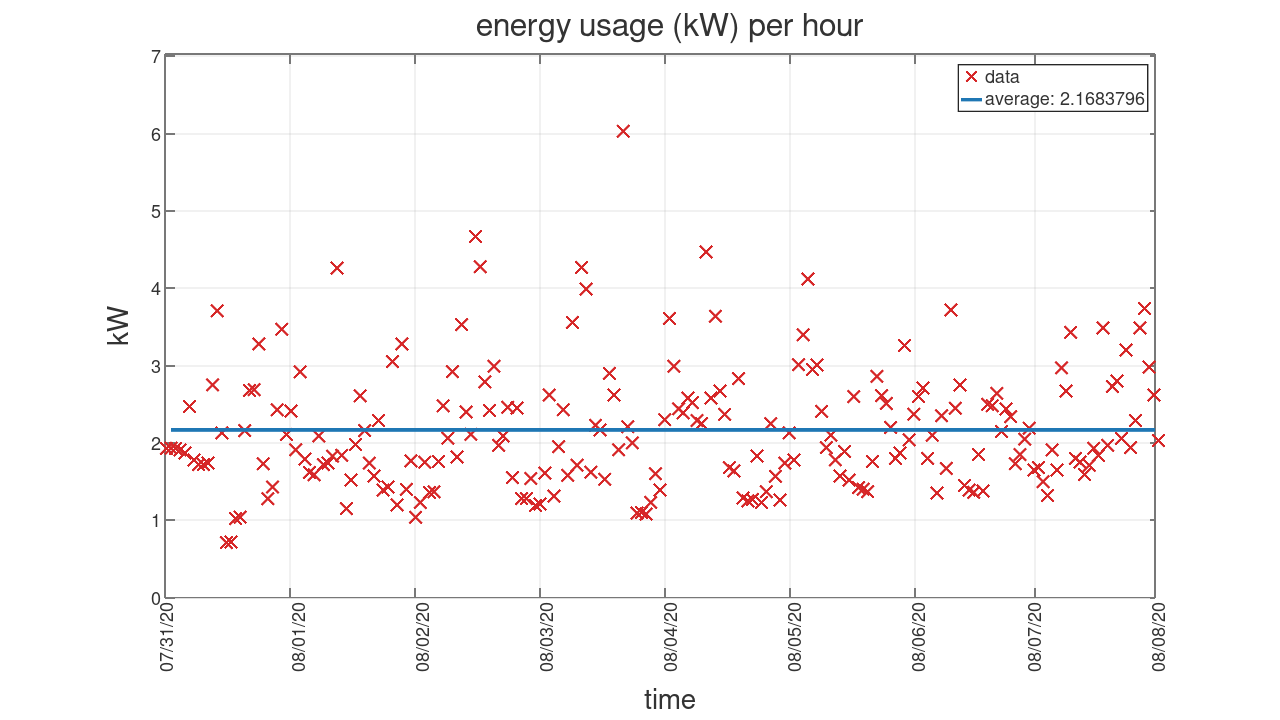
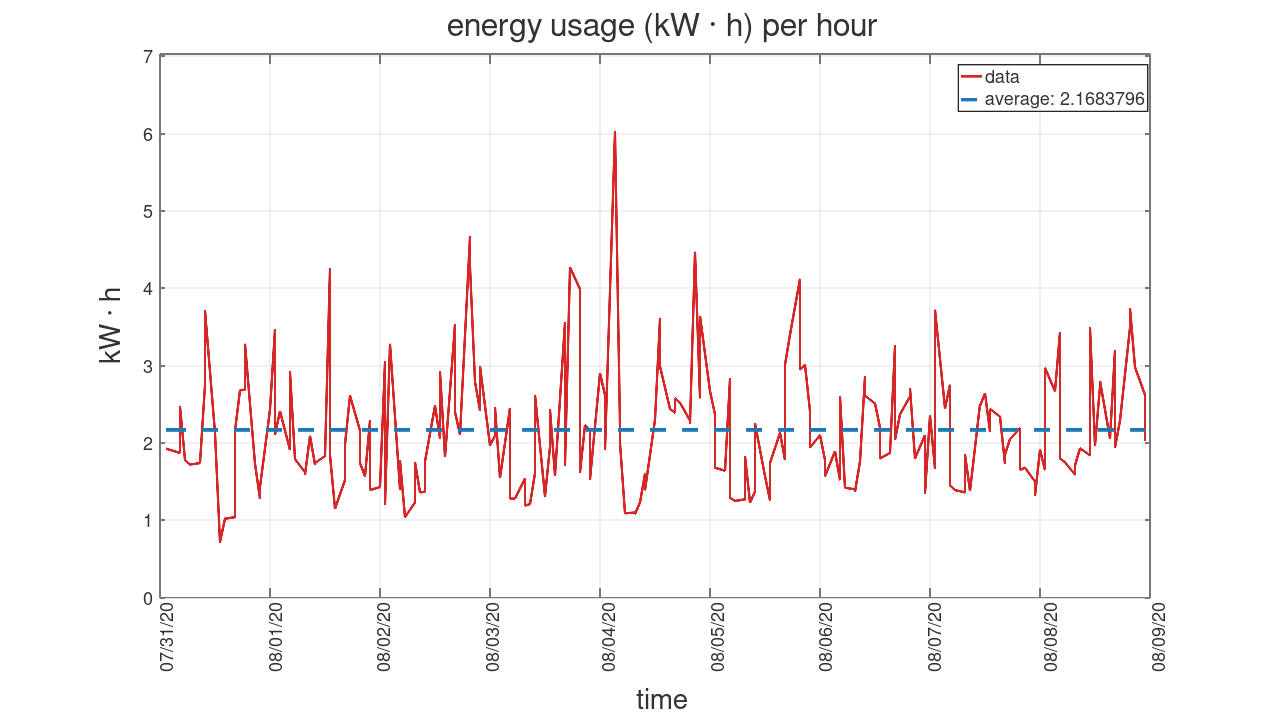
typos

diff --git a/graph_usage.m b/graph_usage.m
@@ -29,23 +29,23 @@ resy = 720;
 H = figure('position', [1,1,resx,resy]);
 hold on;
 
-plot(x, y, 'x', ...
+plot(x, y, '-', ...
     'displayname', 'data', ...
     'color', [214/255, 39/255, 40/255], ...
     'linewidth', 3, ...
-    'markersize', 12 ...
+    'markersize', 8 ...
 );
 
-xticks(linspace(x(1), x(end), floor(length(x)/24)));
-datetick('x', '%D', 'keepticks');
-
-plot(x, avgy, '-', ...
+plot(x, avgy, '--', ...
     'displayname', sprintf('average: %.7f', mean(y)), ...
     'color', [31/255, 119/255, 180/255], ...
     'linewidth', 4 ...
 );
 
-xlim([min(x), max(x)]);
+xticks(x(1):x(end)+1/24);
+datetick('x', '%D', 'keepticks');
+
+xlim([x(1), x(end)+1/24]);
 ylim([0,max(y)+1]);
 
 L = legend();
@@ -90,7 +90,7 @@ set(xt_H, ...
     'color', [0.2, 0.2 ,0.2] ...
 );
 
-Yl = ylabel('kW', ...
+Yl = ylabel('kW \cdot h', ...
     'fontweight', 'normal', ...
     'fontsize', 28, ...
     'color', [0.2, 0.2 ,0.2] ...
@@ -108,7 +108,7 @@ set(yt_H, ...
     'color', [0.2, 0.2 ,0.2] ...
 );
 
-title('energy usage (kW) per hour', ...
+title('energy usage (kW \cdot h) per hour', ...
     'fontweight', 'normal', ...
     'fontsize', 32, ...
     'color', [0.2, 0.2, 0.2] ...

diff --git a/README.md b/README.md
@@ -7,6 +7,6 @@ usage:
  * set where you want to save your login in `get_usage.sh`
  * set the meter number from [the duke energy usage analysis page](https://www.duke-energy.com/my-account/usage-analysis) in `get_usage.sh`
  * run `./get_usage.sh | tee usage.csv`
- * run `octave graph_data.m` to generate pretty graph `usage.png`
+ * run `octave graph_usage.m` to generate pretty graph `usage.png`
 
 ![usage.png](usage.png)
